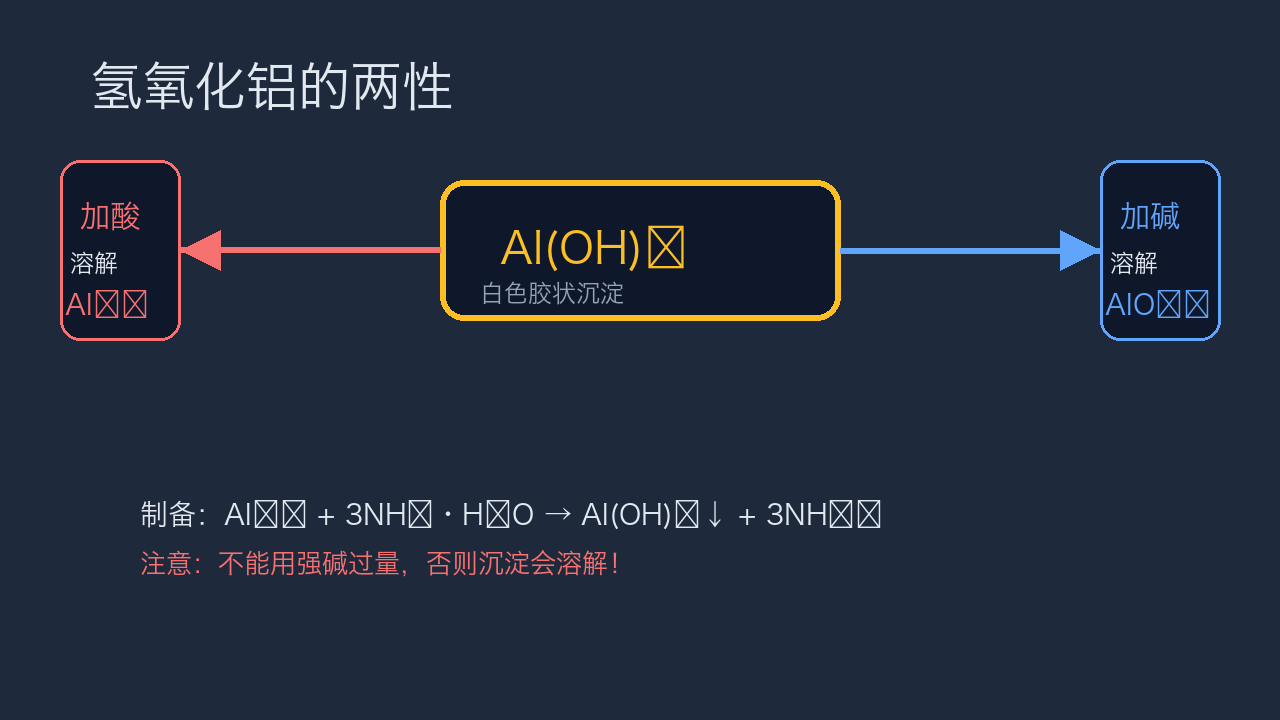
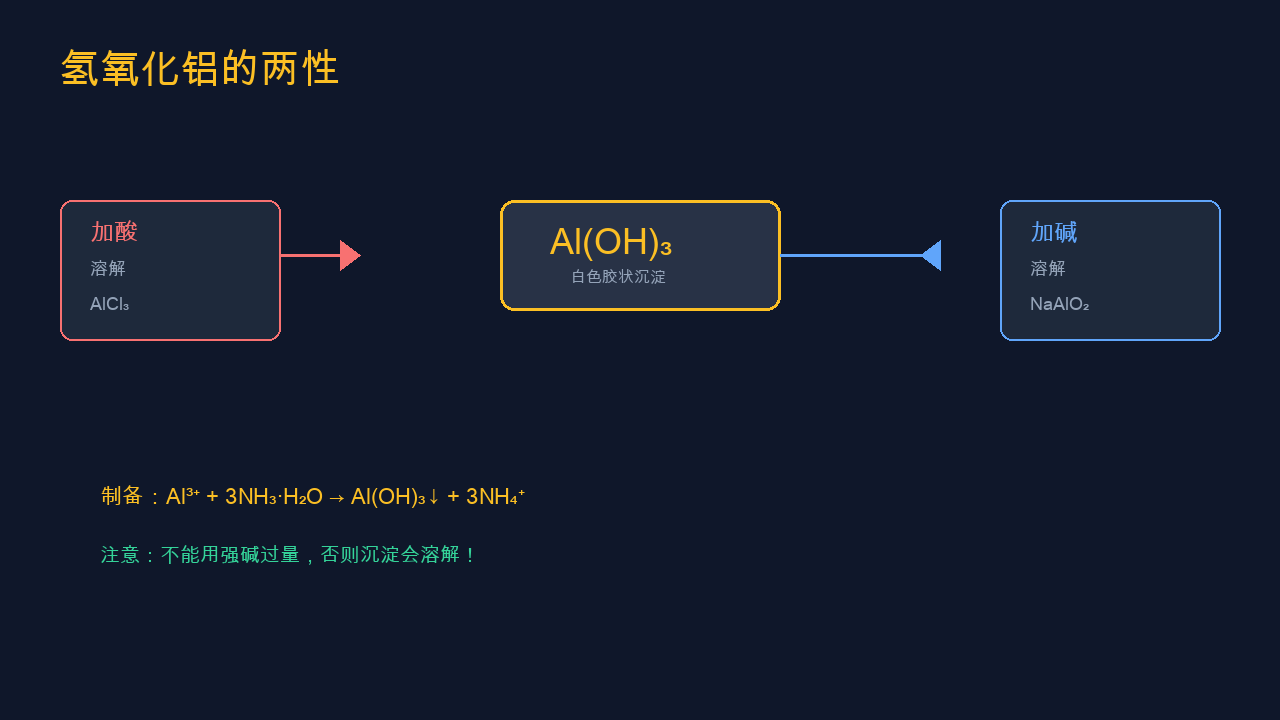
fix: 铝课件修复乱码和图片问题
- 修复 HTML 标签不匹配：第198行 <span> 误用 </strong> 关闭
- 重新生成4张配图：改用 Arial Unicode 字体替代 Hiragino Sans GB
  Hiragino Sans GB 不支持 Unicode 下标字符（₂₃⁺⁻），导致化学公式
  在图片中显示为方框（⊠）
- 验证：所有 HTML 标签平衡，图片渲染正确

diff --git a/examples/chem-h-aluminum-compounds/index.html b/examples/chem-h-aluminum-compounds/index.html
@@ -195,7 +195,7 @@ section{margin:52px 0}
     <p><strong>1. 物理性质</strong></p>
     <p style="color:var(--text-dim);font-size:14px">银白色金属，密度 2.70 g/cm³（约为铁的 1/3），熔点 660°C，具有良好的导电性、导热性和延展性。</p>
     <p style="margin-top:12px"><strong>2. 化学性质——表面氧化膜的保护作用</strong></p>
-    <p style="color:var(--text-dim);font-size:14px">铝是活泼金属，但常温下与空气接触会迅速形成一层致密的 <span class="hl-key">Al₂O₃</strong> 氧化膜（厚度约 4 nm），阻止内部铝继续被氧化。这层膜是铝制品耐腐蚀的关键。</p>
+    <p style="color:var(--text-dim);font-size:14px">铝是活泼金属，但常温下与空气接触会迅速形成一层致密的 <span class="hl-key">Al₂O₃</span> 氧化膜（厚度约 4 nm），阻止内部铝继续被氧化。这层膜是铝制品耐腐蚀的关键。</p>
   </div>
   <img src="assets/al-reaction.png" alt="铝与酸碱反应" style="width:100%;border-radius:var(--card-radius);margin:16px 0">
   <div class="card accent-red">
